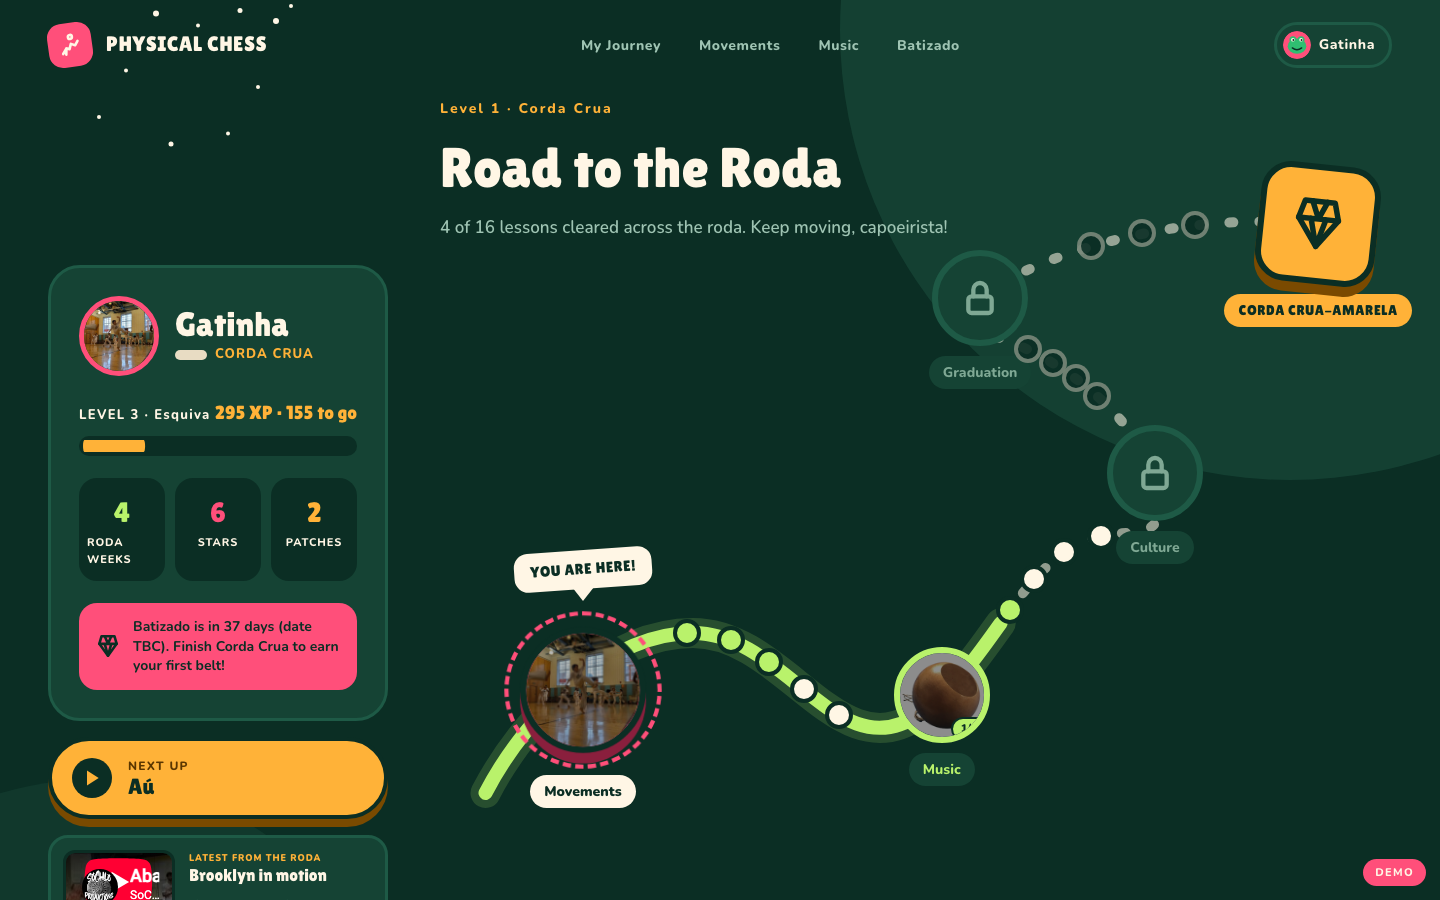
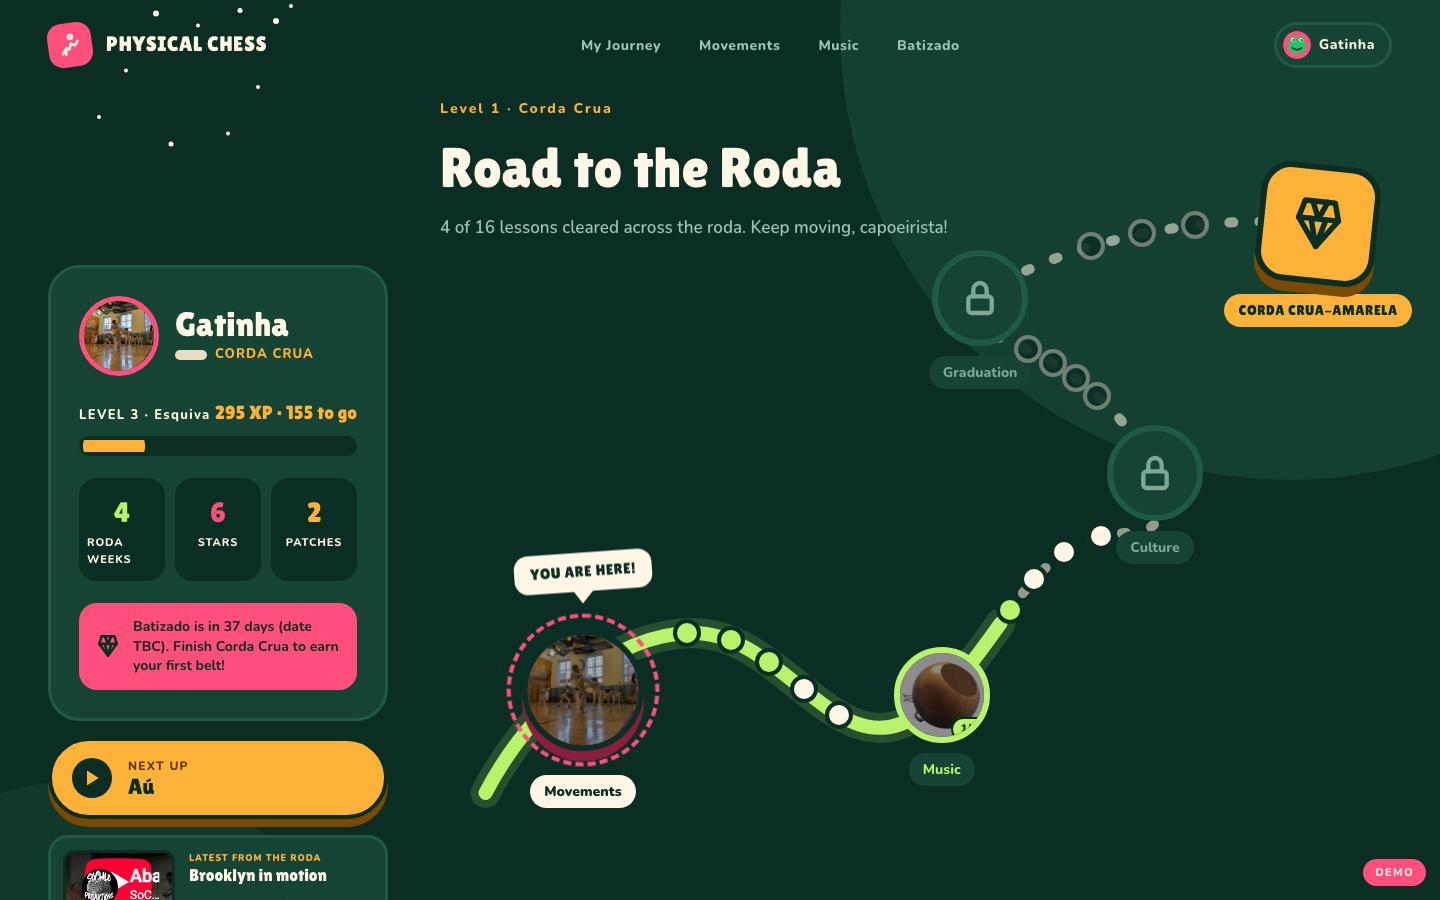
WP2: persist quiz events, screenshots, and the lesson-engine report.
Await outbox flush so rapid quiz.answered writes survive navigation, and land hub/player shots at 1440 and 390.

Changed region(s): [[0.3438, 0.5911, 0.4688, 0.8711]]

diff --git a/src/lib/actions.js b/src/lib/actions.js
@@ -62,7 +62,7 @@ export async function recordEvent(type, { moduleId = null, lessonId = null, payl
   store.set({ events, snapshot: after });
 
   queue([event, ...extra]);
-  flushOutbox();
+  await flushOutbox();
 
   if (event.xp > 0) emit('game:xp', { xp: event.xp, type });
   if (lessonId && after.lessons[lessonId]?.status === 'done' && before.lessons[lessonId]?.status !== 'done') emit('game:lesson-done', { lessonId, stars: after.lessons[lessonId].bestStars });
@@ -91,10 +91,19 @@ export async function flushOutbox() {
   flushing = true;
   try {
     const repo = await getRepo();
-    const byPlayer = new Map();
-    for (const e of box) { if (!byPlayer.has(e.playerId)) byPlayer.set(e.playerId, []); byPlayer.get(e.playerId).push(e); }
-    for (const [playerId, events] of byPlayer) await repo.appendEvents(playerId, events);
-    localStorage.setItem(OUTBOX_KEY, '[]');
+    while (true) {
+      const batch = readOutbox();
+      if (!batch.length) break;
+      const byPlayer = new Map();
+      for (const e of batch) {
+        if (!byPlayer.has(e.playerId)) byPlayer.set(e.playerId, []);
+        byPlayer.get(e.playerId).push(e);
+      }
+      for (const [playerId, events] of byPlayer) await repo.appendEvents(playerId, events);
+      const sent = new Set(batch.map((e) => e.clientEventId));
+      const leftover = readOutbox().filter((e) => !sent.has(e.clientEventId));
+      localStorage.setItem(OUTBOX_KEY, JSON.stringify(leftover));
+    }
   } catch (err) {
     console.warn('outbox flush failed, will retry', err);
   } finally {

diff --git a/agents/reports/WP2.md b/agents/reports/WP2.md
@@ -1,0 +1,32 @@
+# WP2 — Lesson engine
+
+## Built
+- Module hubs at `/learn/[module]` (`getStaticPaths` over `MODULES`). Rail grouped by `module.groups`, live snapshot state (done + stars, current, open, locked), progress ring, Next-up CTA, module photo. Music ports the instrument field guide and glossary teaser. Culture shows maps, manifestations, and animal photos from `media.js`. Graduation shows the gate (locked / closed / glow when `readiness.ready`). Locked modules keep `lockedReason` and do not open lessons (click toasts; deep links bounce to `?locked=1`).
+- Replaced showcase `learn/movements.astro` and `learn/music.astro`. Redirects `/movements` → `/learn/movements` and `/music` → `/learn/music` still work.
+- Lesson player `/learn/:module/:lesson` for all four types, using `LessonFrame`, `Reading`, `Check`, `ReadAloud`, `DrillTimer`, and an extended `Quiz`.
+  - Video: “I watched it” stays disabled for 60s (countdown ring) or until the YouTube iframe reports ended; HTML5 `wixVideoKey` supported if WP1 adds it.
+  - Reading: sentence highlight + Listen; glossary words speak `pt-BR` and `glossary.mastered` after “I can say it”; check shakes on wrong, lime pulse on right, first-try = 2 stars.
+  - Drill: big timer, pause/resume, step cadence, metronome off by default, 1–3 self-rating, then a one-tap “Ask a grown-up…” `practice.confirmed`.
+  - Quiz: `photoKey` above the prompt, 3 hearts, 0 hearts = restart with no XP (answers buffered until a finish), per-question `quiz.answered`, then `quiz.done` with stars.
+- Completion panel: stars fill, XP delta (quiz includes answer XP), patch note, module-cleared treatment, Next from `snapshot.nextUp`, focus + `aria-live` toast.
+- Mobile 390: rails become a horizontal chip strip; current chip scrolls into view. No horizontal page scroll at 390 or 1440.
+- `src/lib/speech.js` + stop on `astro:before-swap` / `pagehide`.
+- Smoke test waits out the 60s watch gate (Playwright clock) and clicks the visible quiz question.
+
+## Left out
+- Official YouTube IFrame API script (postMessage + 60s timer instead; no extra third-party script in smoke).
+- Quiz types not in the schema (order-the-steps, image choices). `photoKey` is wired for when WP1 adds it.
+- WP3 reward overlays (LevelUp / PatchUnlock). This package toasts the patch title only.
+- Full guardian “I saw it” report-card flow (WP4). The drill confirm is the lite version.
+
+## Shared-file edits
+- `src/directions/quest/theme.css` — appended `/* === WP2: lesson engine === */` only. `tokens.css` untouched.
+- `src/components/Quiz.astro` — WP2-owned; hearts, photo, restart.
+- `src/lib/actions.js` — `recordEvent` now `await`s `flushOutbox()`, and flush no longer drops events queued during an in-flight write. Needed so a quiz’s three `quiz.answered` + `quiz.done` all persist before navigation. Backwards compatible.
+- `test/e2e/demo-smoke.mjs` — 60s watch gate + scoped quiz clicks.
+- Did not edit content files, `tokens.css`, `journey.astro`, or `motion.js`. `src/data/curriculum.js` remains for the map (WP3).
+
+## Next agent
+- Hubs live at `/learn/movements|music|culture|graduation`. Map `PAGE_FOR_MODULE` in `journey.astro` already points at `/learn/movements` and `/learn/music`; culture still links to `/learn/music` until WP3 rebinds the map to `/learn/<module>`.
+- New lessons from WP1 render as long as they keep the schema in `src/content/lessons.js` (`videoKey`/`wixVideoKey`, `body`+`check`, `drill`, `quiz`, `glossary`).
+- Static verify: `dist/client` on port **4402**. `npm run build`, `npm test`, `node test/e2e/demo-smoke.mjs http://localhost:4402` → `SMOKE OK`. Screenshots in `screenshots/wp2/`.
